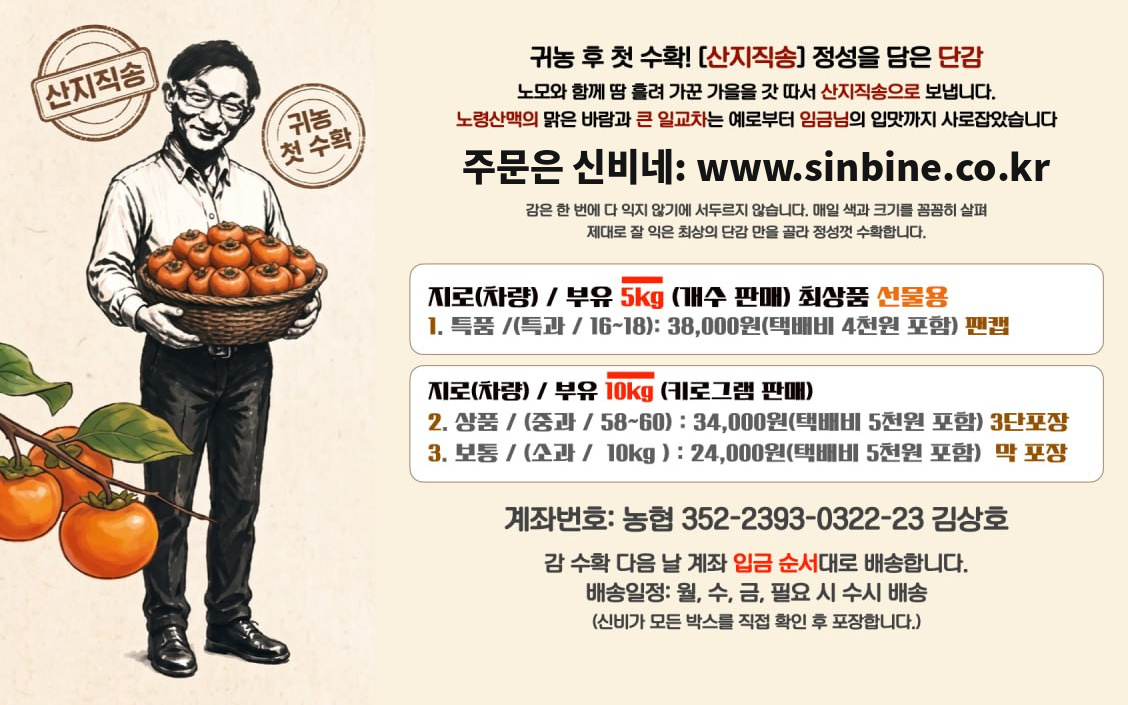
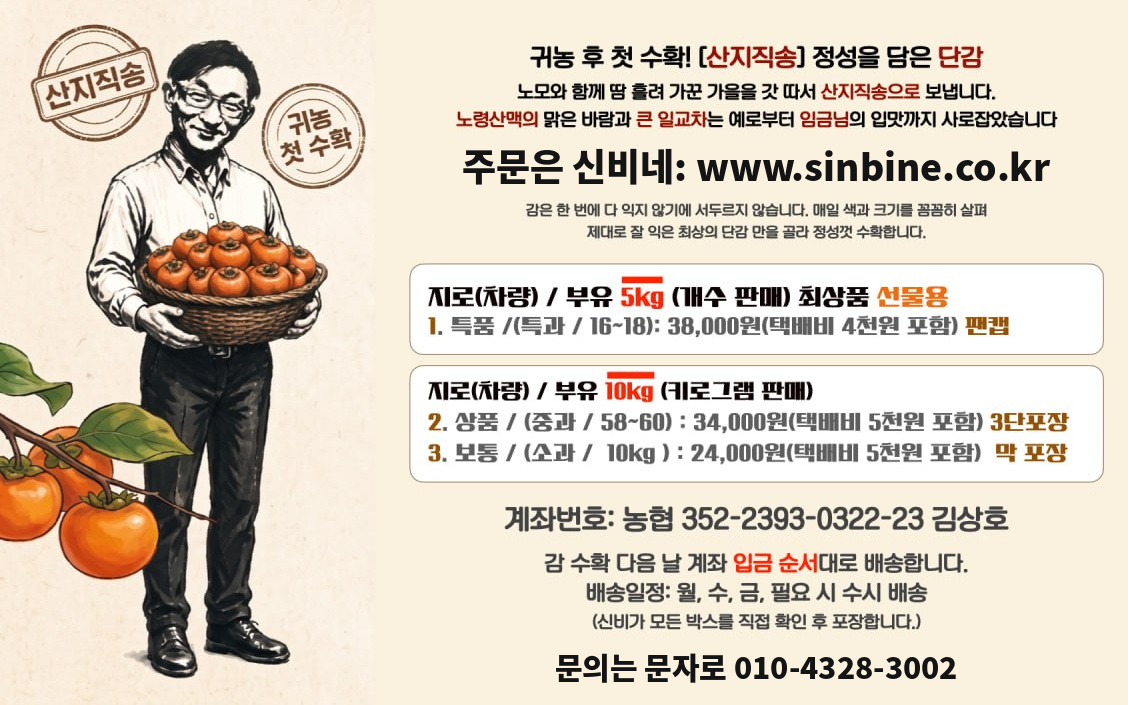
Add files via upload

Changed region(s): [[0.4965, 0.905, 0.8688, 0.9674]]

diff --git a/index.html b/index.html
@@ -39,6 +39,8 @@
   .more{background:linear-gradient(180deg,#fff4e0,#ffe9c7);border:2px dashed var(--orange);border-radius:16px;padding:16px;margin:14px 0;text-align:center}
   .more b{display:block;font-size:17px;margin-bottom:2px}
   .oitem .h button{border:0;background:none;color:var(--red);font-weight:800;font-size:13px;cursor:pointer;padding:2px 0 2px 10px}
+  .pill{display:inline-block;border-radius:999px;padding:2px 10px;font-size:12.5px;font-weight:800}
+  .pill.ok{background:#e8f5e9;color:#2e7d32} .pill.wait{background:#fff0d6;color:#a35a00} .pill.ship{background:#e3eefc;color:#1c5db0}
   .olist{margin:14px 0 6px;display:grid;gap:8px}
   .oitem{background:#fff;border:1px solid var(--line);border-radius:12px;padding:10px 12px;font-size:14px}
   .oitem .h{display:flex;justify-content:space-between;font-weight:800;margin-bottom:2px}
@@ -132,7 +134,24 @@
 </header>
 <div class="hero-cta">
   <button class="btn" type="button" id="heroOrder">주문하기</button>
+  <div style="margin-top:12px"><button type="button" id="lookupToggle" style="border:0;background:none;color:#c85a0b;font-weight:800;font-size:15px;text-decoration:underline;cursor:pointer;padding:8px">📦 주문하셨나요? 주문 및 출고 현황 조회</button></div>
 </div>
+
+<section class="wrap" id="lookup" hidden style="padding-bottom:0">
+  <div class="card">
+    <h2 style="margin-top:0">주문 및 출고 현황 조회</h2>
+    <p class="sub" style="margin-top:0">주문하실 때 입력한 <b>주문자 이름</b>과 <b>휴대전화</b>를 입력해 주세요.</p>
+    <form id="lookupForm" novalidate style="display:grid;gap:8px">
+      <input class="in" id="lkName" type="text" maxlength="30" placeholder="주문자 이름" autocomplete="name">
+      <input class="in" id="lkPhone" type="tel" inputmode="numeric" maxlength="13" placeholder="주문자 휴대전화 010-0000-0000" autocomplete="tel">
+      <button class="btn" type="submit" id="lkBtn">조회하기</button>
+    </form>
+    <div class="err" id="lkErr" role="alert"></div>
+    <div id="lkResult" class="olist" style="margin-top:14px"></div>
+    <p class="hint">주문 내역과 출고(발송) 현황을 보여드립니다. 개인정보 보호를 위해 주소 등은 표시하지 않고 받는 분 이름·번호는 일부만 보여드립니다.</p>
+    <div class="notice" style="margin-top:12px;text-align:center"><b>주문 취소나 변경을 원하시면</b><br>아래 전화번호로 문자 주세요.<br><a id="lkSms" href="sms:01043283002" style="font-size:22px;font-weight:900;color:#c85a0b;text-decoration:none">010-4328-3002</a></div>
+  </div>
+</section>
 
 <main class="wrap" id="order">
 
@@ -530,7 +549,13 @@ function unlockDepositor(){ $('depositor').readOnly = false; $('depositor').styl
 function toForm(){
   PRODUCTS.forEach(p => qty[p.key] = 0); syncProducts();
   $('consent').checked = false; $('memo').value = '';
-  if(CART.length){ $('depositor').value = CART[0].o.depositor; $('depositor').readOnly = true; $('depositor').style.background = '#f3eee3'; }
+  if(CART.length){
+    $('depositor').value = CART[0].o.depositor; $('depositor').readOnly = true; $('depositor').style.background = '#f3eee3';
+    // 추가 주문: 주문자(이름·전화)는 그대로 두고, 받는 분과 배송지는 비워서 새로 입력하게 함
+    $('sameRecv').checked = false;
+    [$('recvName'), $('recvPhone')].forEach(el => { el.readOnly = false; el.style.background = ''; el.value = ''; });
+    ['zip','address','addressDetail'].forEach(id => { $(id).value = ''; });
+  }
   $('done').style.display = 'none'; $('formView').style.display = 'block';
   $('sec-items').scrollIntoView({behavior:'smooth', block:'start'});
 }
@@ -586,6 +611,42 @@ $('again').addEventListener('click', toForm);
 $('newOrder').addEventListener('click', () => { CART = []; PAID = null; unlockDepositor(); toForm(); });
 
 /* ---- 주문 버튼 · 하단 고정 바 ---- */
+/* ---- 주문 및 출고 현황 조회 ---- */
+$('lkSms').textContent = CONTACT_PHONE; $('lkSms').href = 'sms:' + CONTACT_PHONE.replace(/\D/g,'');
+$('lookupToggle').addEventListener('click', () => {
+  const box = $('lookup'); box.hidden = !box.hidden;
+  if(!box.hidden){ box.scrollIntoView({behavior:'smooth', block:'start'}); $('lkPhone').focus({preventScroll:true}); }
+});
+$('lkPhone').addEventListener('input', (e) => hyphenate(e.target));
+$('lookupForm').addEventListener('submit', async (e) => {
+  e.preventDefault();
+  const eb = $('lkErr'), out = $('lkResult'); eb.classList.remove('show'); out.innerHTML = '';
+  const lkName = $('lkName').value.trim();
+  const phone = $('lkPhone').value.replace(/\D/g,'');
+  if(!lkName){ eb.textContent = '주문자 이름을 입력해 주세요.'; eb.classList.add('show'); return; }
+  if(!/^01[016789]\d{7,8}$/.test(phone)){ eb.textContent = '휴대전화 번호를 확인해 주세요.'; eb.classList.add('show'); return; }
+  const btn = $('lkBtn'); btn.disabled = true; btn.textContent = '조회 중…';
+  try{
+    if(!API_URL) throw new Error('미리보기 모드에서는 조회할 수 없습니다.');
+    const ctl = new AbortController(); const timer = setTimeout(() => ctl.abort(), 20000);
+    const r = await fetch(API_URL, { method:'POST', body: JSON.stringify({ action:'lookup', name: lkName, phone }), signal: ctl.signal });
+    clearTimeout(timer);
+    const j = await r.json();
+    if(!j.ok) throw new Error(j.error || '조회에 실패했습니다.');
+    if(!j.orders.length){ out.innerHTML = '<div class="oitem">일치하는 주문이 없습니다. 주문 시 입력한 주문자 이름과 휴대전화가 맞는지 확인해 주세요.</div>'; return; }
+    out.innerHTML = j.orders.map(o => {
+      const st = o.shipped ? `<span class="pill ship">발송 완료${o.shippedAt ? ' · ' + esc(o.shippedAt) : ''}</span>` : `<span class="pill wait">발송 준비 중</span>`;
+      const items = o.items.map(i => `${esc(i.name)} ${i.qty}박스`).join(' · ');
+      return `<div class="oitem"><div class="h"><span>${esc(o.recvName)} 님께${o.multi ? ' <small>(복수주문)</small>' : ''}</span><span>${won(o.total)}</span></div>` +
+        `<div style="margin:4px 0">${st}</div><div class="s">${items}</div><div class="s">받는 분 연락처 ${esc(o.recvPhone)}</div>` +
+        (o.tracking ? `<div class="s">송장번호 <b>${esc(o.tracking)}</b></div>` : '') +
+        `<div class="s">접수 ${esc(o.at)} · 주문번호 ${esc(o.orderNo)}</div></div>`;
+    }).join('');
+  }catch(err){
+    eb.textContent = (err && err.name === 'AbortError') ? '응답이 지연되고 있습니다. 잠시 후 다시 시도해 주세요.' : (err.message || '조회에 실패했습니다.'); eb.classList.add('show');
+  }finally{ btn.disabled = false; btn.textContent = '조회하기'; }
+});
+
 function goOrder(){ $('sec-items').scrollIntoView({behavior:'smooth', block:'start'}); }
 $('heroOrder').addEventListener('click', goOrder);
 $('dockBtn').addEventListener('click', goOrder);
